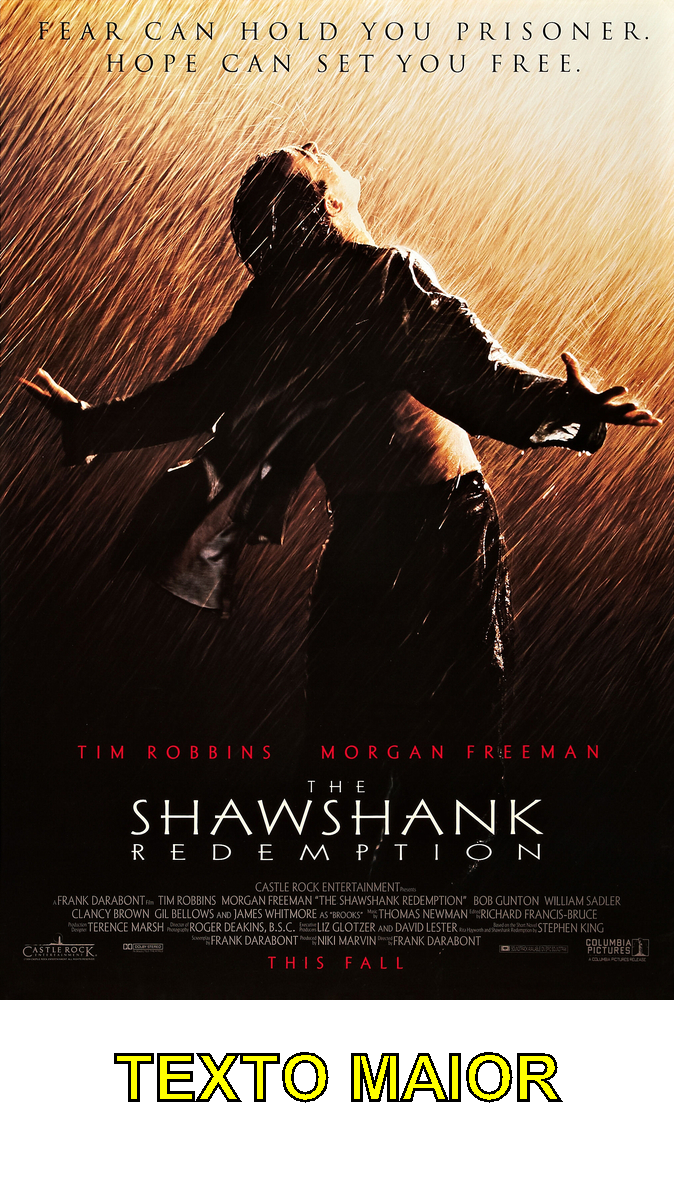
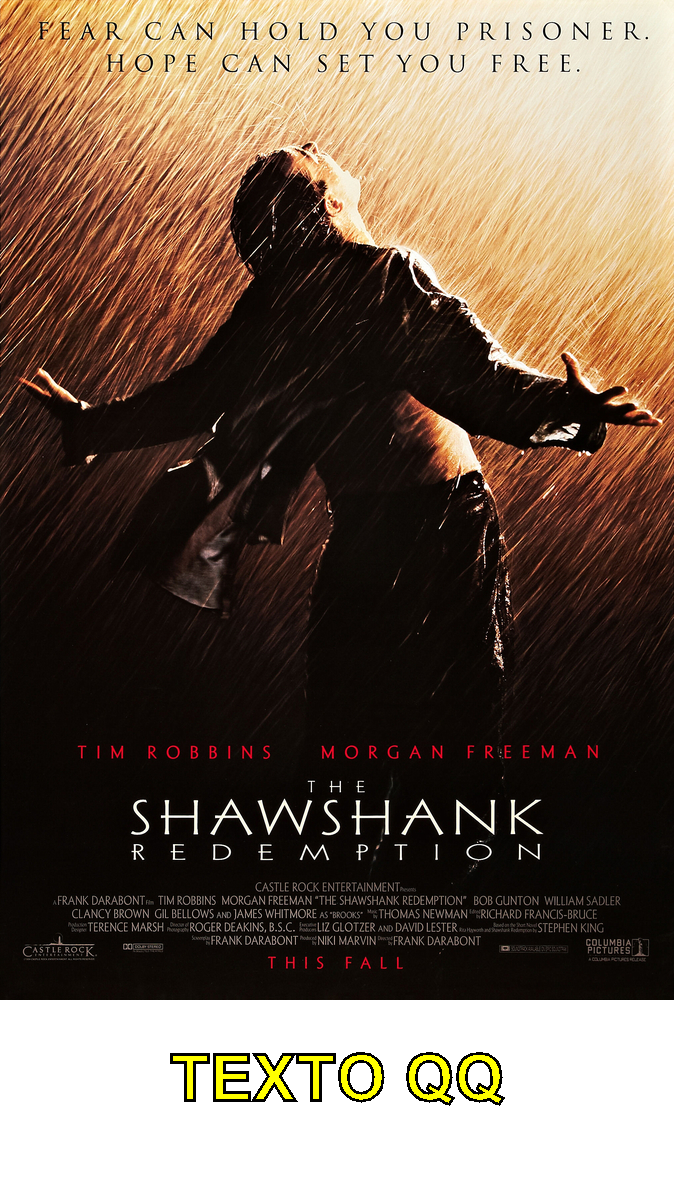
update stickers factory

Changed region(s): [[0.1558, 0.8633, 0.8412, 0.925]]

diff --git a/alura-stickers/src/FactoryStickers.java b/alura-stickers/src/FactoryStickers.java
@@ -33,7 +33,7 @@ public class FactoryStickers {
         graphics.setFont(fonte);
 
         //escrever uma frase na nova imagem
-        String texto = "TEXTO MAIOR";
+        String texto = "TEXTO QQ";
         FontMetrics fontMetrics = graphics.getFontMetrics();
         Rectangle2D rectangleText = fontMetrics.getStringBounds(texto, graphics);
         int larguraTexto = (int) rectangleText.getWidth();
